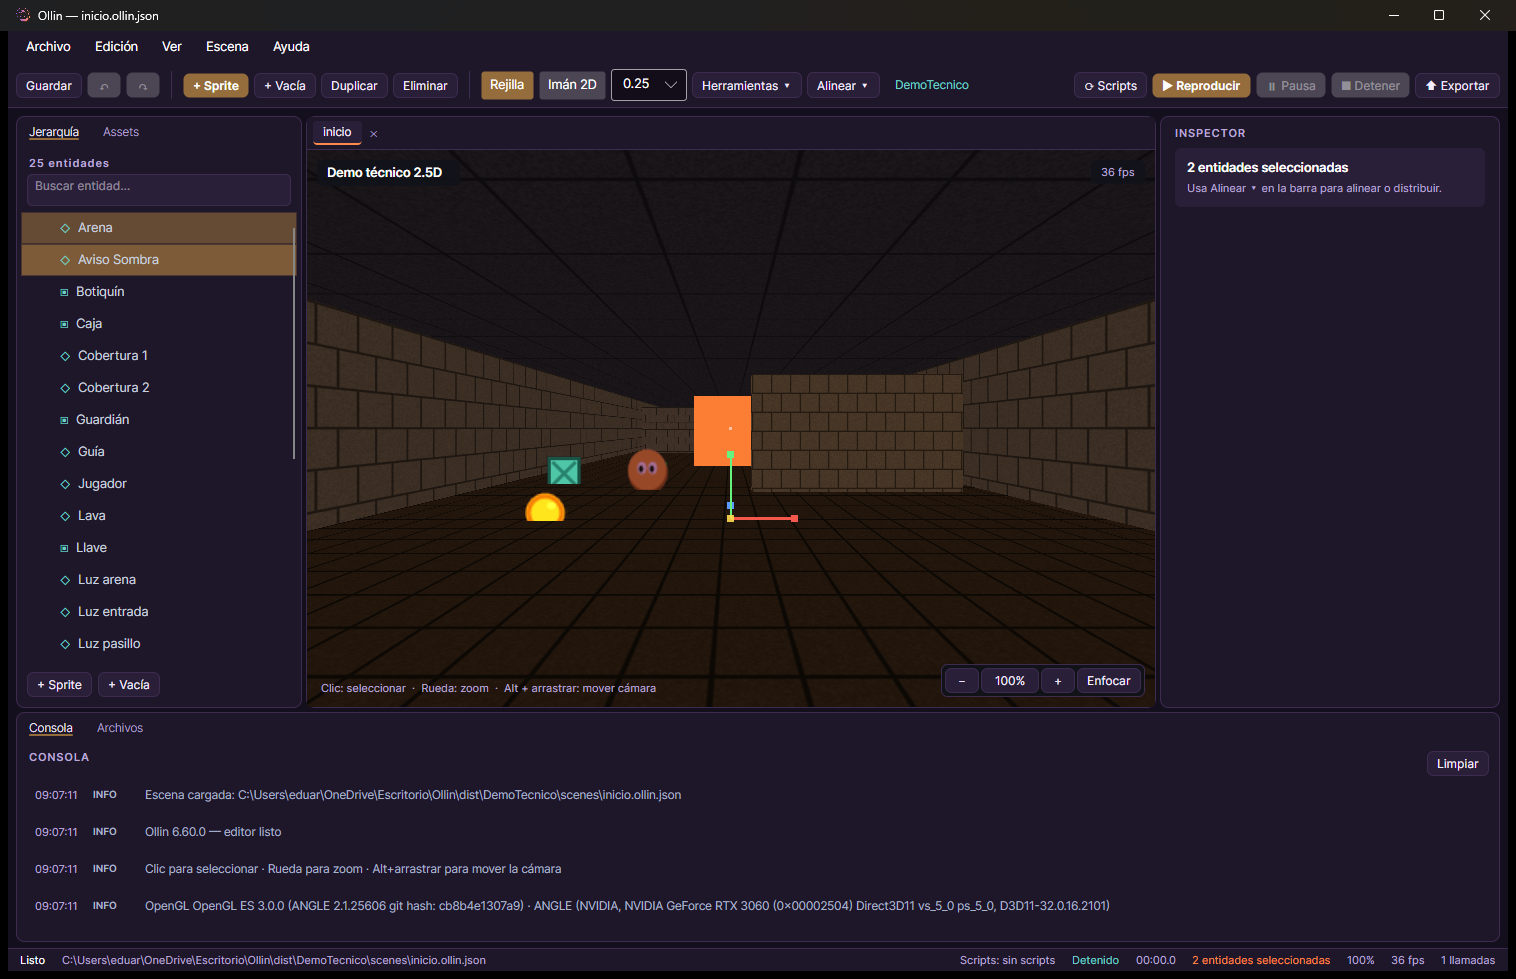
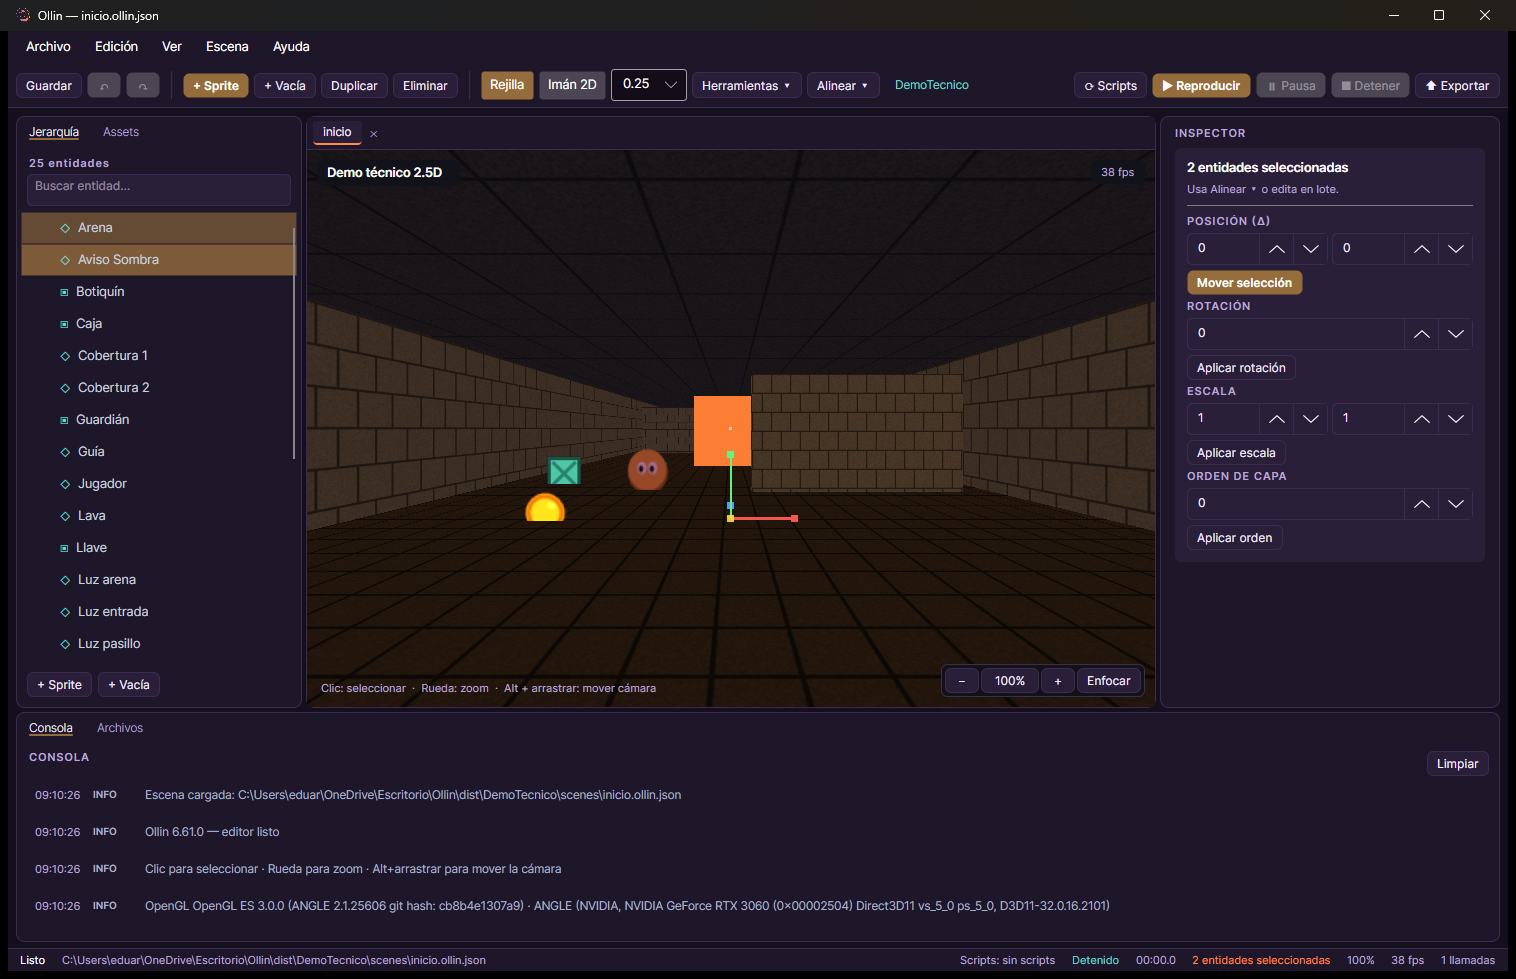
Beta 6.62.0: edicion en lote y duplicar seleccion

diff --git a/src/Ollin.Editor/ViewModels/MainViewModel.cs b/src/Ollin.Editor/ViewModels/MainViewModel.cs
@@ -28,6 +28,12 @@ public sealed partial class MainViewModel : ObservableObject
     private EntityNode? _selected;
     private readonly List<EntityNode> _selection = new();
     private bool _selectionAdd;
+    private decimal _batchOffsetX;
+    private decimal _batchOffsetY;
+    private decimal _batchRotation;
+    private decimal _batchScaleX = 1m;
+    private decimal _batchScaleY = 1m;
+    private decimal _batchSorting;
     private bool _showGrid = true;
     private string _statusMessage = "Listo";
     private string? _scenePath;
@@ -1252,25 +1258,34 @@ public sealed partial class MainViewModel : ObservableObject
 
     public void DuplicateSelected()
     {
-        if (IsPlaying || Selected is null)
+        if (IsPlaying) return;
+
+        var nodes = _selection.Count > 0
+            ? _selection.ToList()
+            : Selected is { } primary ? new List<EntityNode> { primary } : new List<EntityNode>();
+        if (nodes.Count == 0) return;
+
+        var copies = new List<Entity>();
+        foreach (var node in nodes)
         {
-            return;
+            var original = node.Entity;
+            var copy = original.Clone();
+            copy.Name = nodes.Count == 1 ? $"{original.Name} (copia)" : $"{original.Name} (copia)";
+            copy.Transform.Position += new Vector2(0.4f, -0.4f);
+            Scene.Add(copy);
+            copies.Add(copy);
         }
 
-        var original = Selected.Entity;
-        var copy = original.Clone();
-        copy.Name = $"{original.Name} (copia)";
-        copy.Transform.Position += new Vector2(0.4f, -0.4f);
-        Scene.Add(copy);
         RebuildTree();
-        Select(copy);
+        SelectMany(copies);
         IsDirty = true;
-        CommitEdit("Duplicar entidad");
+        CommitEdit(nodes.Count == 1 ? "Duplicar entidad" : $"Duplicar {nodes.Count} entidades");
         OnPropertyChanged(nameof(EntityCountText));
-        Log.Info($"Entidad duplicada: {copy.Name}", "Editor");
+        Log.Info(nodes.Count == 1
+            ? $"Entidad duplicada: {copies[0].Name}"
+            : $"{nodes.Count} entidades duplicadas", "Editor");
         RequestRedraw();
     }
-
     public void Select(Entity? entity, bool additive = false)
     {
         if (entity is null)
@@ -1356,6 +1371,56 @@ public sealed partial class MainViewModel : ObservableObject
             OnPropertyChanged(nameof(SelectionIds));
             RequestRedraw();
         }
+    }
+
+    public decimal BatchOffsetX { get => _batchOffsetX; set => SetProperty(ref _batchOffsetX, value); }
+
+    public decimal BatchOffsetY { get => _batchOffsetY; set => SetProperty(ref _batchOffsetY, value); }
+
+    public decimal BatchRotation { get => _batchRotation; set => SetProperty(ref _batchRotation, value); }
+
+    public decimal BatchScaleX { get => _batchScaleX; set => SetProperty(ref _batchScaleX, value); }
+
+    public decimal BatchScaleY { get => _batchScaleY; set => SetProperty(ref _batchScaleY, value); }
+
+    public decimal BatchSorting { get => _batchSorting; set => SetProperty(ref _batchSorting, value); }
+
+    public void ApplyBatchMove()
+    {
+        if (_selection.Count < 2) return;
+        foreach (var node in _selection)
+        {
+            node.X += BatchOffsetX;
+            node.Y += BatchOffsetY;
+        }
+        BatchOffsetX = 0m;
+        BatchOffsetY = 0m;
+        StatusMessage = $"Movidas {_selection.Count} entidades";
+    }
+
+    public void ApplyBatchRotation()
+    {
+        if (_selection.Count < 2) return;
+        foreach (var node in _selection) node.RotationDegrees = BatchRotation;
+        StatusMessage = $"Rotación aplicada a {_selection.Count} entidades";
+    }
+
+    public void ApplyBatchScale()
+    {
+        if (_selection.Count < 2) return;
+        foreach (var node in _selection)
+        {
+            node.ScaleX = BatchScaleX;
+            node.ScaleY = BatchScaleY;
+        }
+        StatusMessage = $"Escala aplicada a {_selection.Count} entidades";
+    }
+
+    public void ApplyBatchSorting()
+    {
+        if (_selection.Count < 2) return;
+        foreach (var node in _selection) node.SortingOrder = BatchSorting;
+        StatusMessage = $"Orden aplicado a {_selection.Count} entidades";
     }
 
     public void AlignSelected(string mode)

diff --git a/src/Ollin.Editor/Views/MainWindow.axaml.cs b/src/Ollin.Editor/Views/MainWindow.axaml.cs
@@ -432,6 +432,14 @@ public partial class MainWindow : Window
     private void OnBrushFloor(object? sender, Avalonia.Interactivity.RoutedEventArgs e) =>
         ViewportHost.Viewport.Brush3DMode = ViewportHost.Viewport.Brush3DMode == Controls.Brush3DMode.Floor ? Controls.Brush3DMode.None : Controls.Brush3DMode.Floor;
 
+    private void OnBatchMove(object? sender, Avalonia.Interactivity.RoutedEventArgs e) => ViewModel?.ApplyBatchMove();
+
+    private void OnBatchRotate(object? sender, Avalonia.Interactivity.RoutedEventArgs e) => ViewModel?.ApplyBatchRotation();
+
+    private void OnBatchScale(object? sender, Avalonia.Interactivity.RoutedEventArgs e) => ViewModel?.ApplyBatchScale();
+
+    private void OnBatchSorting(object? sender, Avalonia.Interactivity.RoutedEventArgs e) => ViewModel?.ApplyBatchSorting();
+
     private void OnAlignLeft(object? sender, Avalonia.Interactivity.RoutedEventArgs e) => ViewModel?.AlignSelected("left");
 
     private void OnAlignCenterH(object? sender, Avalonia.Interactivity.RoutedEventArgs e) => ViewModel?.AlignSelected("centerH");

diff --git a/docs/RELEASE-NOTES.md b/docs/RELEASE-NOTES.md
@@ -1,23 +1,21 @@
-## Ollin Beta 6.61.0 — selección múltiple desde jerarquía
+## Ollin Beta 6.62.0 — edición en lote
 
 ### Incluye
 
-- **Ctrl+clic** y **Shift+clic** en la jerarquía.
-- Sincronización con el viewport.
-- Inspector de resumen con **Alinear ▾**.
-- Borrado de toda la selección.
+- Mover varias entidades por ΔX/ΔY.
+- Aplicar rotación, escala y orden de capa en lote.
+- Duplicar toda la selección.
 - **205 pruebas automatizadas**.
 
 ### Cómo probarlo
 
-1. Instala 6.61.0 y abre una escena.
-2. Haz clic en una entidad de la jerarquía.
-3. `Ctrl+clic` en otra.
-4. Comprueba que el viewport y el inspector reflejan la selección.
-5. Usa **Alinear ▾** o Supr.
+1. Instala 6.62.0 y selecciona varias entidades.
+2. En el inspector, usa **Mover selección**.
+3. Aplica rotación, escala u orden.
+4. Pulsa **Duplicar** para copiar todo el grupo.
 
 ### Limitaciones
 
-- La selección múltiple no incluye lazos desde la jerarquía.
-- El inspector de multi selección no edita transformaciones en lote.
+- La edición de posición es por desplazamiento, no absoluta.
+- Las copias no reconstruyen relaciones padre-hijo entre seleccionados.
 - La demo técnica no se publica.

diff --git a/docs/BETA.md b/docs/BETA.md
@@ -1,4 +1,4 @@
-# Beta 6.61.0 de Ollin
+# Beta 6.62.0 de Ollin
 
 Compilación de prueba para instalar y usar el motor fuera del repositorio. Cierra la
 etapa 6 del roadmap (2.5D, grafo visual y pulido del editor).
@@ -30,7 +30,7 @@ etapa 6 del roadmap (2.5D, grafo visual y pulido del editor).
 
 ## Instalar
 
-1. Ejecuta `Ollin-Setup-6.61.0-beta.exe`.
+1. Ejecuta `Ollin-Setup-6.62.0-beta.exe`.
 2. Pulsa **Instalar**. Se copia en `%LOCALAPPDATA%\Ollin`.
 3. Se crean accesos directos en el escritorio y en el menú Inicio.
 4. Abre Ollin y elige un proyecto en el lanzador, o crea uno con la plantilla
@@ -85,7 +85,7 @@ dotnet publish tools/Ollin.Setup -c Release -r win-x64 --self-contained false `
 ## Prueba automática del instalador
 
 ```powershell
-$setup = "dist/installer/Ollin-Setup-6.61.0-beta.exe"
+$setup = "dist/installer/Ollin-Setup-6.62.0-beta.exe"
 Start-Process $setup -ArgumentList "--silent" -Wait
 Start-Process "$env:LOCALAPPDATA/Ollin/Desinstalar.exe" -ArgumentList "--uninstall --silent" -Wait
 ```

diff --git a/docs/GUIA.md b/docs/GUIA.md
@@ -1022,3 +1022,13 @@ error de sintaxis.
 - La selección se sincroniza con el viewport en ambos sentidos.
 - Con varias entidades, el inspector muestra el resumen y **Alinear ▾**.
 - Supr borra todas las entidades seleccionadas.
+
+## 60. Edición en lote y duplicar selección (6.62)
+
+- Con varias entidades seleccionadas, el inspector muestra:
+  - **Mover selección** por ΔX/ΔY.
+  - **Aplicar rotación**.
+  - **Aplicar escala** X/Y.
+  - **Aplicar orden de capa**.
+- **Duplicar** crea una copia de cada entidad seleccionada.
+- Los duplicados quedan seleccionados.

diff --git a/README.md b/README.md
@@ -23,7 +23,7 @@ Ollin es **gratis y de código abierto (MIT)**: puedes usarlo, modificarlo y dis
 
 ## Descargas
 
-- **Última beta**: [Ollin-Setup-6.61.0-beta.exe](https://github.com/deadcodeMx/ollin/releases/latest)
+- **Última beta**: [Ollin-Setup-6.62.0-beta.exe](https://github.com/deadcodeMx/ollin/releases/latest)
 - **Todas las versiones**: [Releases del proyecto](https://github.com/deadcodeMx/ollin/releases)
 - **Guía completa de uso**: [docs/GUIA.md](docs/GUIA.md)
 

diff --git a/CHANGELOG.md b/CHANGELOG.md
@@ -17,6 +17,14 @@ versionado [SemVer](https://semver.org/lang/es/).
 - Puente 2.5D y 3D.
 - Exportación de un juego a un ejecutable.
 
+## [6.62.0] — 2026-11-02
+
+### Añadido
+
+- Edición en lote de posición, rotación, escala y orden de capa.
+- Duplicar toda la selección.
+- 205 pruebas automatizadas.
+
 ## [6.61.0] — 2026-11-02
 
 ### Añadido
